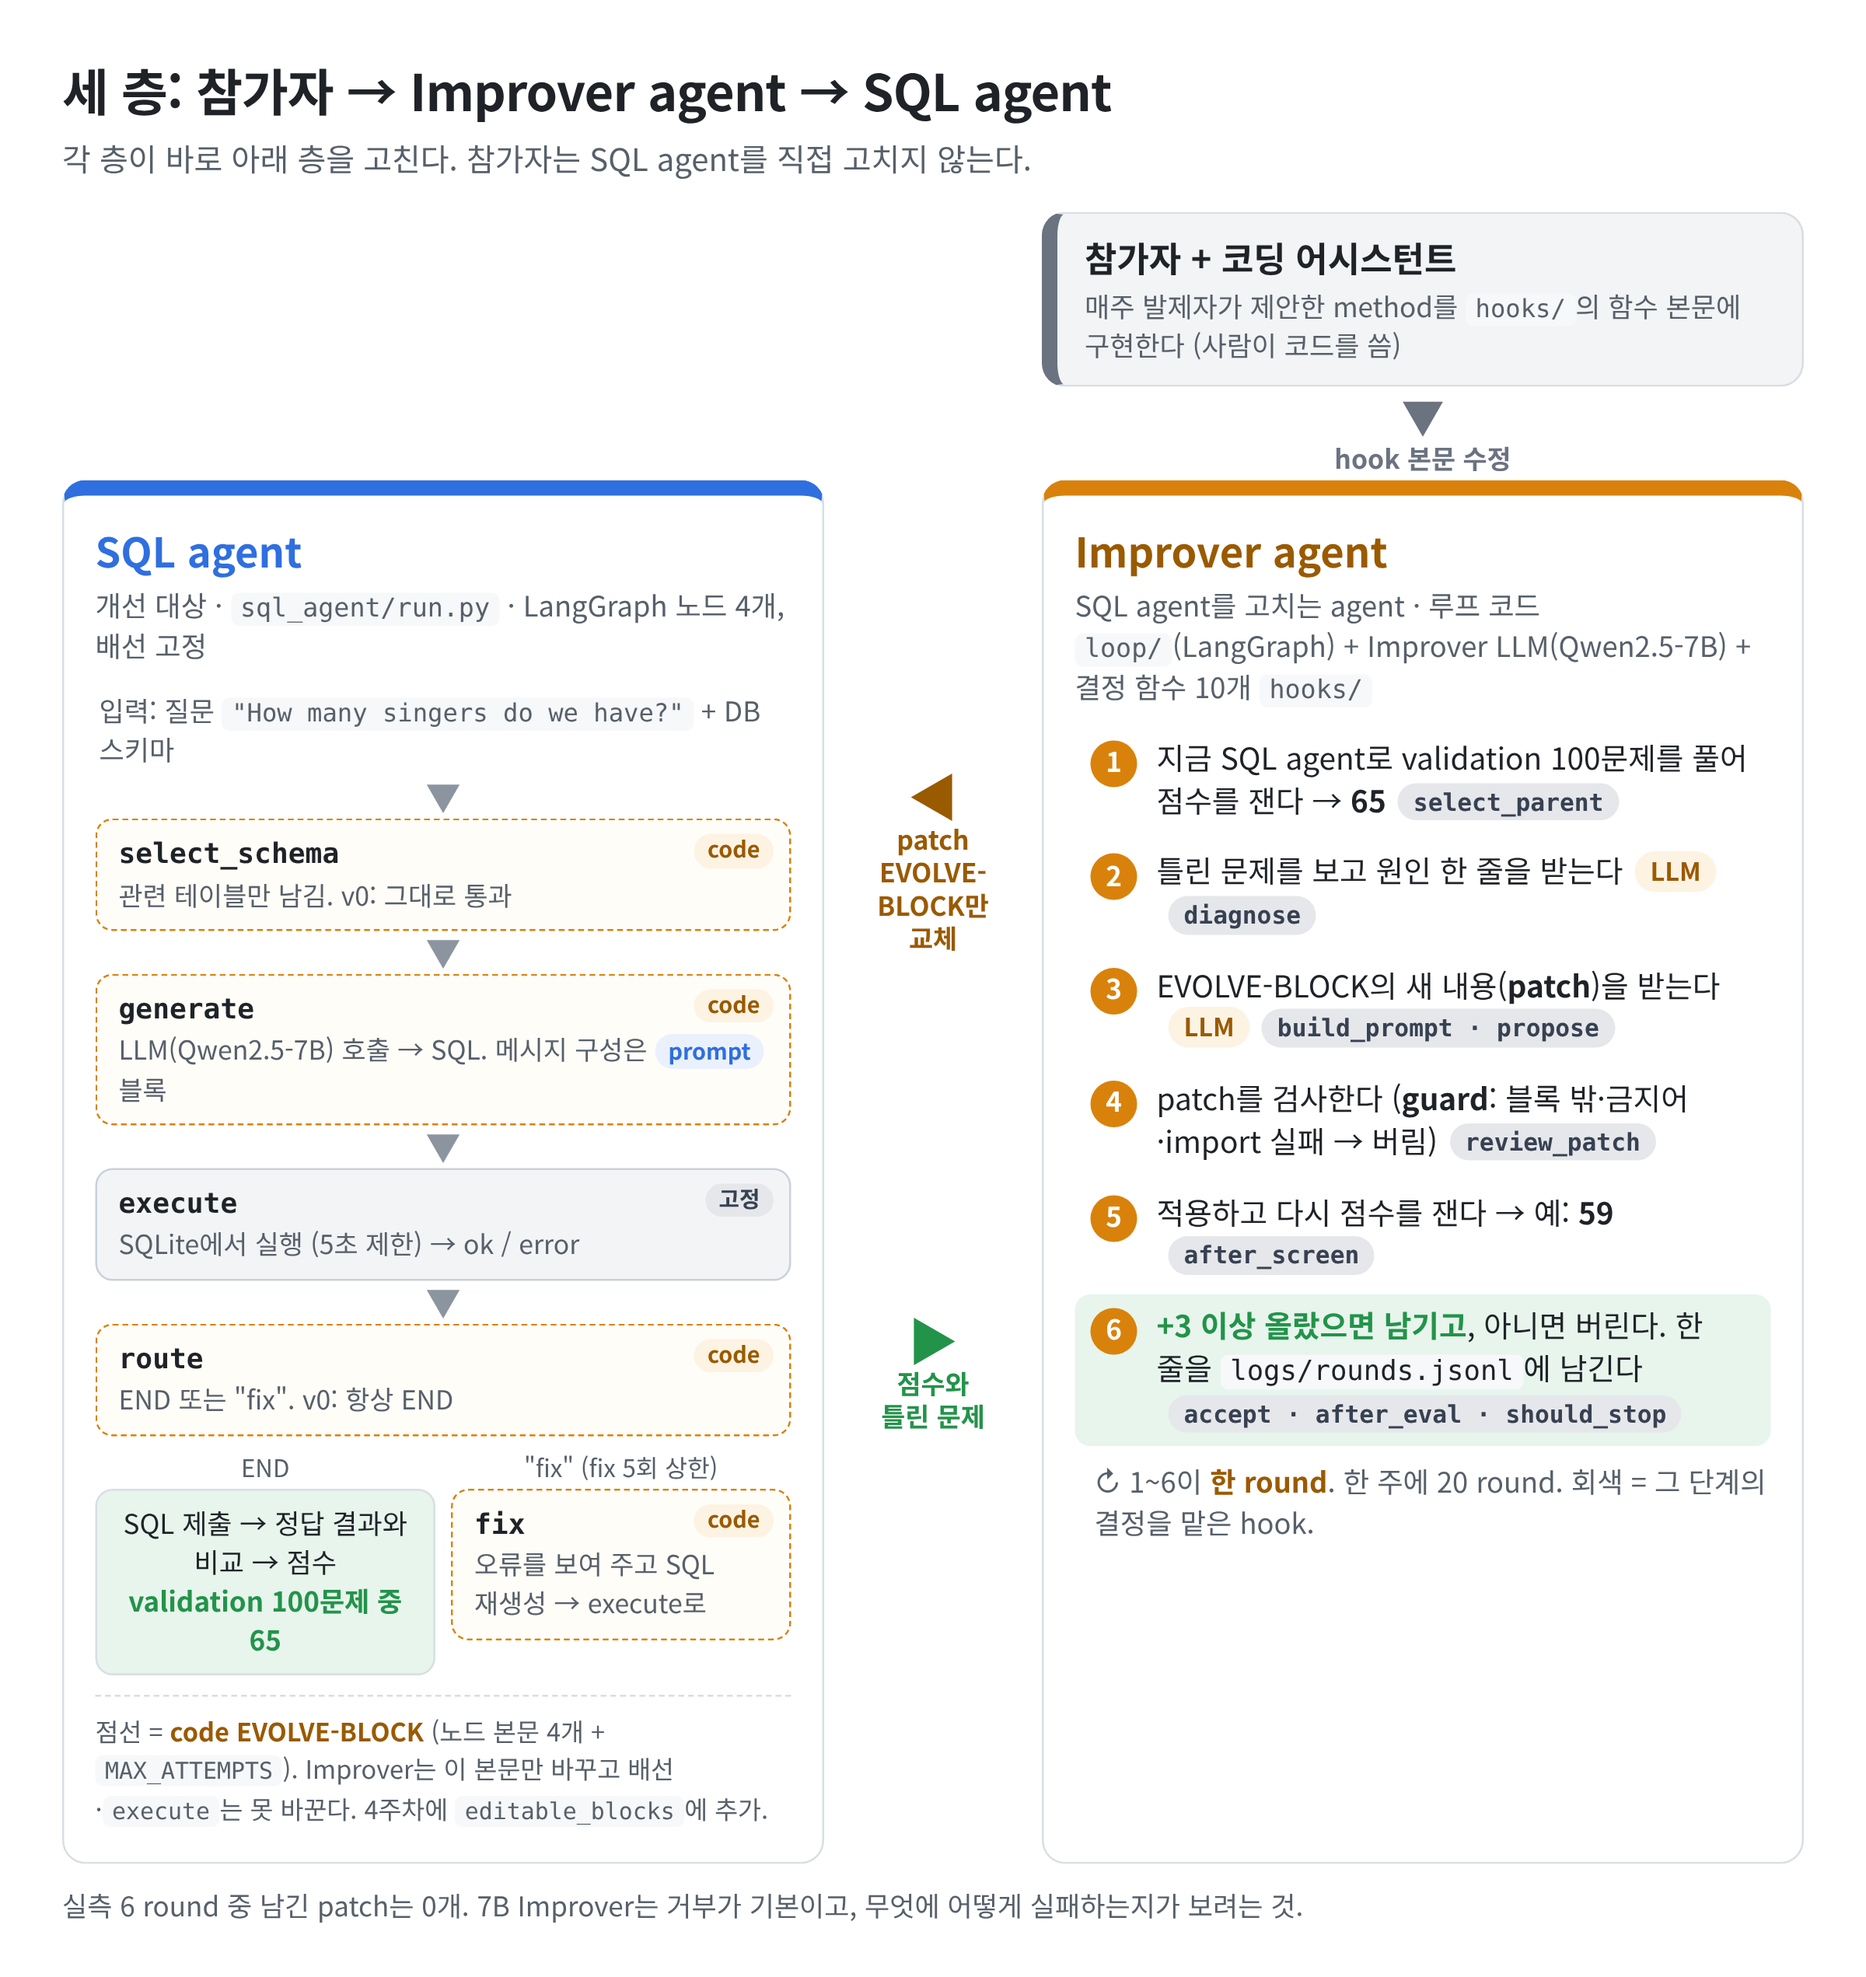
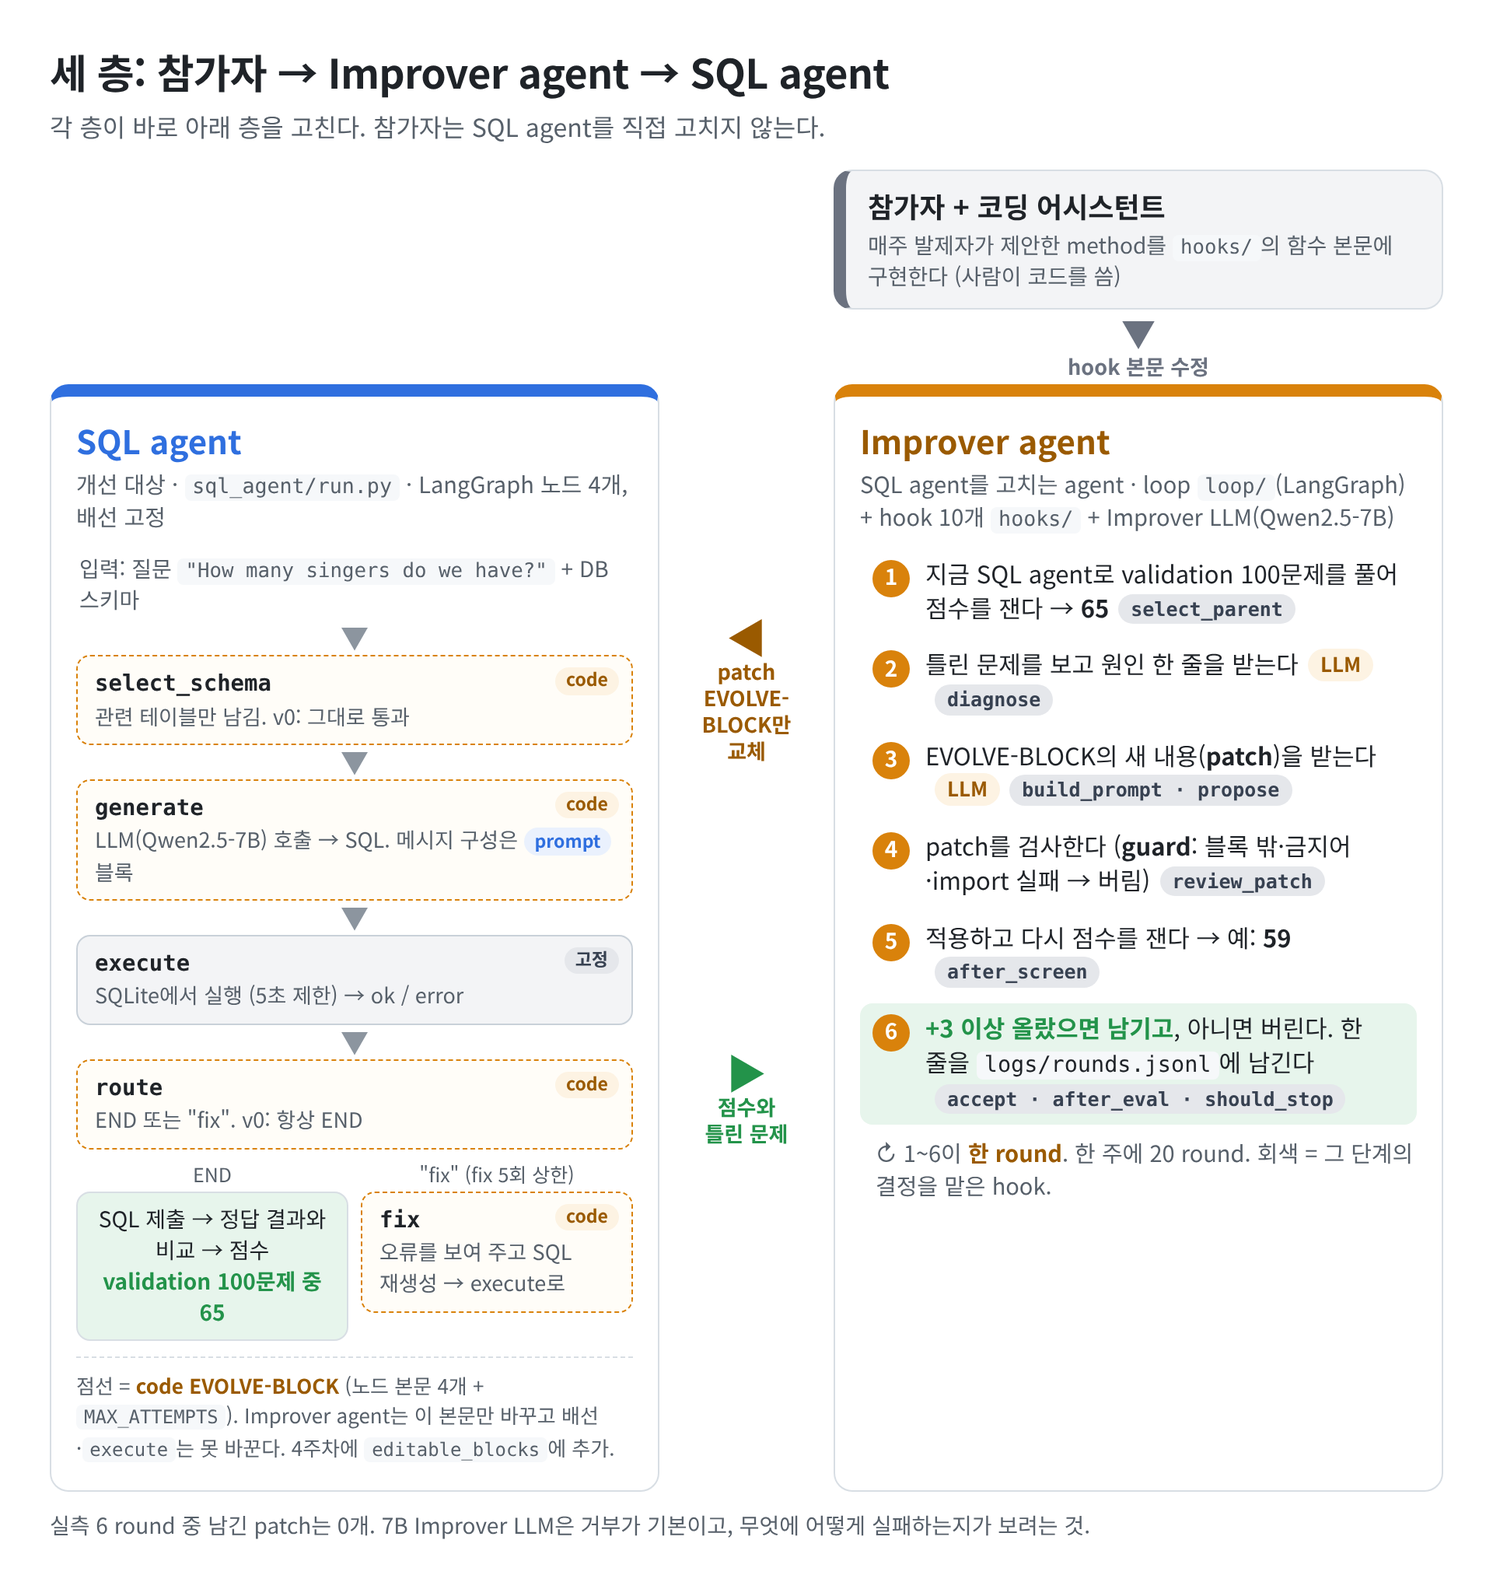
docs: Improver 용어를 Improver agent / Improver LLM / loop로 구분, 그림 갱신
Claude-Session: https://claude.ai/code/session_016zuU2mSgMQZFFveCAhWrPT

diff --git a/README.md b/README.md
@@ -10,9 +10,9 @@
 
 설계 이유, 데이터 형식, 주차별 로드맵 같은 배경은 [위키](https://github.com/pko89403/rsi-study-starter/wiki)에 있다.
 
-![starter의 두 구성 요소: SQL agent는 문제를 풀고, Improver는 그 점수를 보고 EVOLVE-BLOCK을 고친다](docs/components.png)
+![세 층: 참가자가 Improver agent의 hook을 고치고, Improver agent가 SQL agent의 EVOLVE-BLOCK을 고친다](docs/components.png)
 
-**EVOLVE-BLOCK**은 Improver가 고칠 수 있는 유일한 코드 구간이다.
+**EVOLVE-BLOCK**은 Improver agent가 고칠 수 있는 유일한 코드 구간이다.
 
 - `# === EVOLVE-BLOCK-START: <이름> ===` ~ `# === EVOLVE-BLOCK-END ===` 주석으로 감싼다.
 - 세 개가 있다: `prompt`, `code`(`sql_agent/run.py`), `evaluator`(`evaluator/rules.py`).
@@ -60,14 +60,14 @@ make results W=1             # 그 주의 결과 표
 
 ## 2. 폴더
 
-![구성도: Improver(loop + hooks)가 SQL agent의 EVOLVE-BLOCK을 고치고, evaluator가 validation으로 채점한다. test는 loop 밖](docs/structure.png)
+![구성도: Improver agent(loop + hooks + Improver LLM)가 SQL agent의 EVOLVE-BLOCK을 고치고, evaluator가 validation으로 채점한다. test는 loop 밖](docs/structure.png)
 
 | 경로 | 하는 일 | 누가 고치나 |
 |---|---|---|
-| `sql_agent/run.py` | SQL agent (LangGraph, 아래 2-1) | Improver (`editable_blocks`에 적힌 EVOLVE-BLOCK만) |
+| `sql_agent/run.py` | SQL agent (LangGraph, 아래 2-1) | Improver agent (`editable_blocks`에 적힌 EVOLVE-BLOCK만) |
 | `sql_agent/llm.py`, `schema.py` | LLM 호출, 스키마 텍스트 | 사람 |
 | `evaluator/evaluate.py` | SQL 실행 결과를 정답과 비교 | 고정 |
-| `evaluator/rules.py` | validation 채점 규칙. `evaluator` EVOLVE-BLOCK | Improver (6주차에 `editable_blocks`에 추가한 뒤) |
+| `evaluator/rules.py` | validation 채점 규칙. `evaluator` EVOLVE-BLOCK | Improver agent (6주차에 `editable_blocks`에 추가한 뒤) |
 | `evaluator/rules_v0.py` | test 채점 규칙 (고정 복사본) | 고정 |
 | `loop/run.py` | round loop. LangGraph `StateGraph` (아래 3) | 고정 (B는 예외, 아래 6) |
 | `loop/patch.py` | EVOLVE-BLOCK 교체, guard | 고정 |
@@ -76,7 +76,7 @@ make results W=1             # 그 주의 결과 표
 | `hooks/*.py` | 결정 지점 10개. **매주 method는 이 중 하나의 본문을 바꾼다** | 각자 |
 | `data/test.json` | test. loop는 열지 않는다 | 아무도 |
 | `logs/rounds.jsonl` | round당 한 줄 | loop |
-| `scripts/` | test 평가, 결과 표, 분할 생성(운영자), Improver 후보 모델 측정(`probe_code_block`) | — |
+| `scripts/` | test 평가, 결과 표, 분할 생성(운영자), Improver LLM 후보 측정(`probe_code_block`) | — |
 
 ### 2-1. SQL agent의 모양
 
@@ -171,14 +171,14 @@ round, parent, 현재 EVOLVE-BLOCK 내용, before 평가 결과(문제별 정오
 
 ## 5. 주차별로 `editable_blocks`에 추가하는 것
 
-`config.yaml`의 `editable_blocks`에 블록 이름을 더하면 Improver가 그 블록을 고칠 수 있다.
+`config.yaml`의 `editable_blocks`에 블록 이름을 더하면 Improver agent가 그 블록을 고칠 수 있다.
 
 주차별 예와 4주차 `code` 블록 예(노드 본문·`route`)는 위키 [주차별 로드맵](https://github.com/pko89403/rsi-study-starter/wiki/주차별-로드맵)에 있다.
 
 ## 6. 고정인 것과 자유인 것
 
 전원이 같게 유지하는 것은 아래 **평가 조건 5개**다.
-이것만 지키면 사람마다 다른 Improver를 같은 표에 놓을 수 있다.
+이것만 지키면 사람마다 다른 Improver agent를 같은 표에 놓을 수 있다.
 
 1. 데이터: `data/validation.json`·`test.json`·`fewshot_pool.json` (6주차 전까지)
 2. test 채점: `scripts/test_eval.py` + `evaluator/rules_v0.py`
@@ -209,7 +209,7 @@ method가 hook 하나에 들어가면 그 함수만 바꾼다. 안 들어가면 
   - `sql_agent/tools.py`처럼 EVOLVE-BLOCK 밖에 helper를 만든다.
   - `sql_agent/run.py` 위쪽에 import 한 줄을 넣는다.
   - `hooks/build_prompt.py`의 `CONTRACTS["code"]` 이름 목록에 등록한다.
-  - Improver가 그것을 쓰는 patch를 내게 한다.
+  - Improver LLM이 그것을 쓰는 patch를 내게 한다.
 - 기록: SQL agent 기준선이 바뀌므로 "전" 점수를 다시 잰다. "전제 조건"에 적는다.
 
 **D. 평가 조건 5개를 바꿔야 함**
@@ -220,9 +220,9 @@ method가 hook 하나에 들어가면 그 함수만 바꾼다. 안 들어가면 
 
 참고:
 
-- **C의 선**: 사람이 SQL agent를 고치는 것과 Improver가 고치는 것을 섞지 않는다.
+- **C의 선**: 사람이 SQL agent를 고치는 것과 Improver agent가 고치는 것을 섞지 않는다.
   - helper 추가(사람)는 SQL agent 기준선을 바꾸는 변경이다. "전" 점수 재측정으로 분리한다.
-  - 그 helper를 노드 본문에서 쓰는 것(Improver)이 method 효과다. 표의 전/후 차이로 읽는다.
+  - 그 helper를 노드 본문에서 쓰는 것(Improver agent)이 method 효과다. 표의 전/후 차이로 읽는다.
   - helper를 추가하면서 `code` 블록 본문까지 사람이 바꾸면 이 분리가 깨진다.
   - 배선(`make_graph`)을 사람이 바꾸는 것도 C다.
 - **hook이 못 하는 것**: 단계 사이에 끼어들기, 단계 순서 바꾸기, 여러 SQL agent를 동시에 유지하기(population), SQL agent가 쓸 수 있는 이름 늘리기. 이것들이 B·C다.
@@ -245,9 +245,9 @@ method가 hook 하나에 들어가면 그 함수만 바꾼다. 안 들어가면 
 ## 8. 자주 막히는 곳
 
 - **LM Studio**: 모델을 context 16384로 로드한다(`lms load <모델> -c 16384`).
-  기본 context(8192)면 Improver 프롬프트와 출력이 넘칠 수 있다. 자세한 것은 위키 [로컬 LM Studio](https://github.com/pko89403/rsi-study-starter/wiki/로컬-LM-Studio).
+  기본 context(8192)면 Improver LLM 프롬프트와 출력이 넘칠 수 있다. 자세한 것은 위키 [로컬 LM Studio](https://github.com/pko89403/rsi-study-starter/wiki/로컬-LM-Studio).
 - **agent timeout**: `config.yaml`의 `agent_timeout_sec`(기본 1800초). 100문제 × 모델 속도.
 - **round 하나가 몇 분씩 걸림**: Improver LLM이 같은 내용을 반복하다 `improver_max_tokens`까지 쓰는 경우다. 7B에서 가끔 생긴다.
   그 patch는 parse 실패로 거부된다. 상한을 올려도 결과는 같고 시간만 늘어난다.
-- **점수가 전혀 안 움직임**: 7B Improver에서는 흔하다. 거부가 많은 것이 정상이다.
-  Improver 모델 교체는 평가 조건 3을 바꾸는 일이라 전원이 함께 정한다.
+- **점수가 전혀 안 움직임**: 7B Improver LLM에서는 흔하다. 거부가 많은 것이 정상이다.
+  Improver LLM 교체는 평가 조건 3을 바꾸는 일이라 전원이 함께 정한다.
